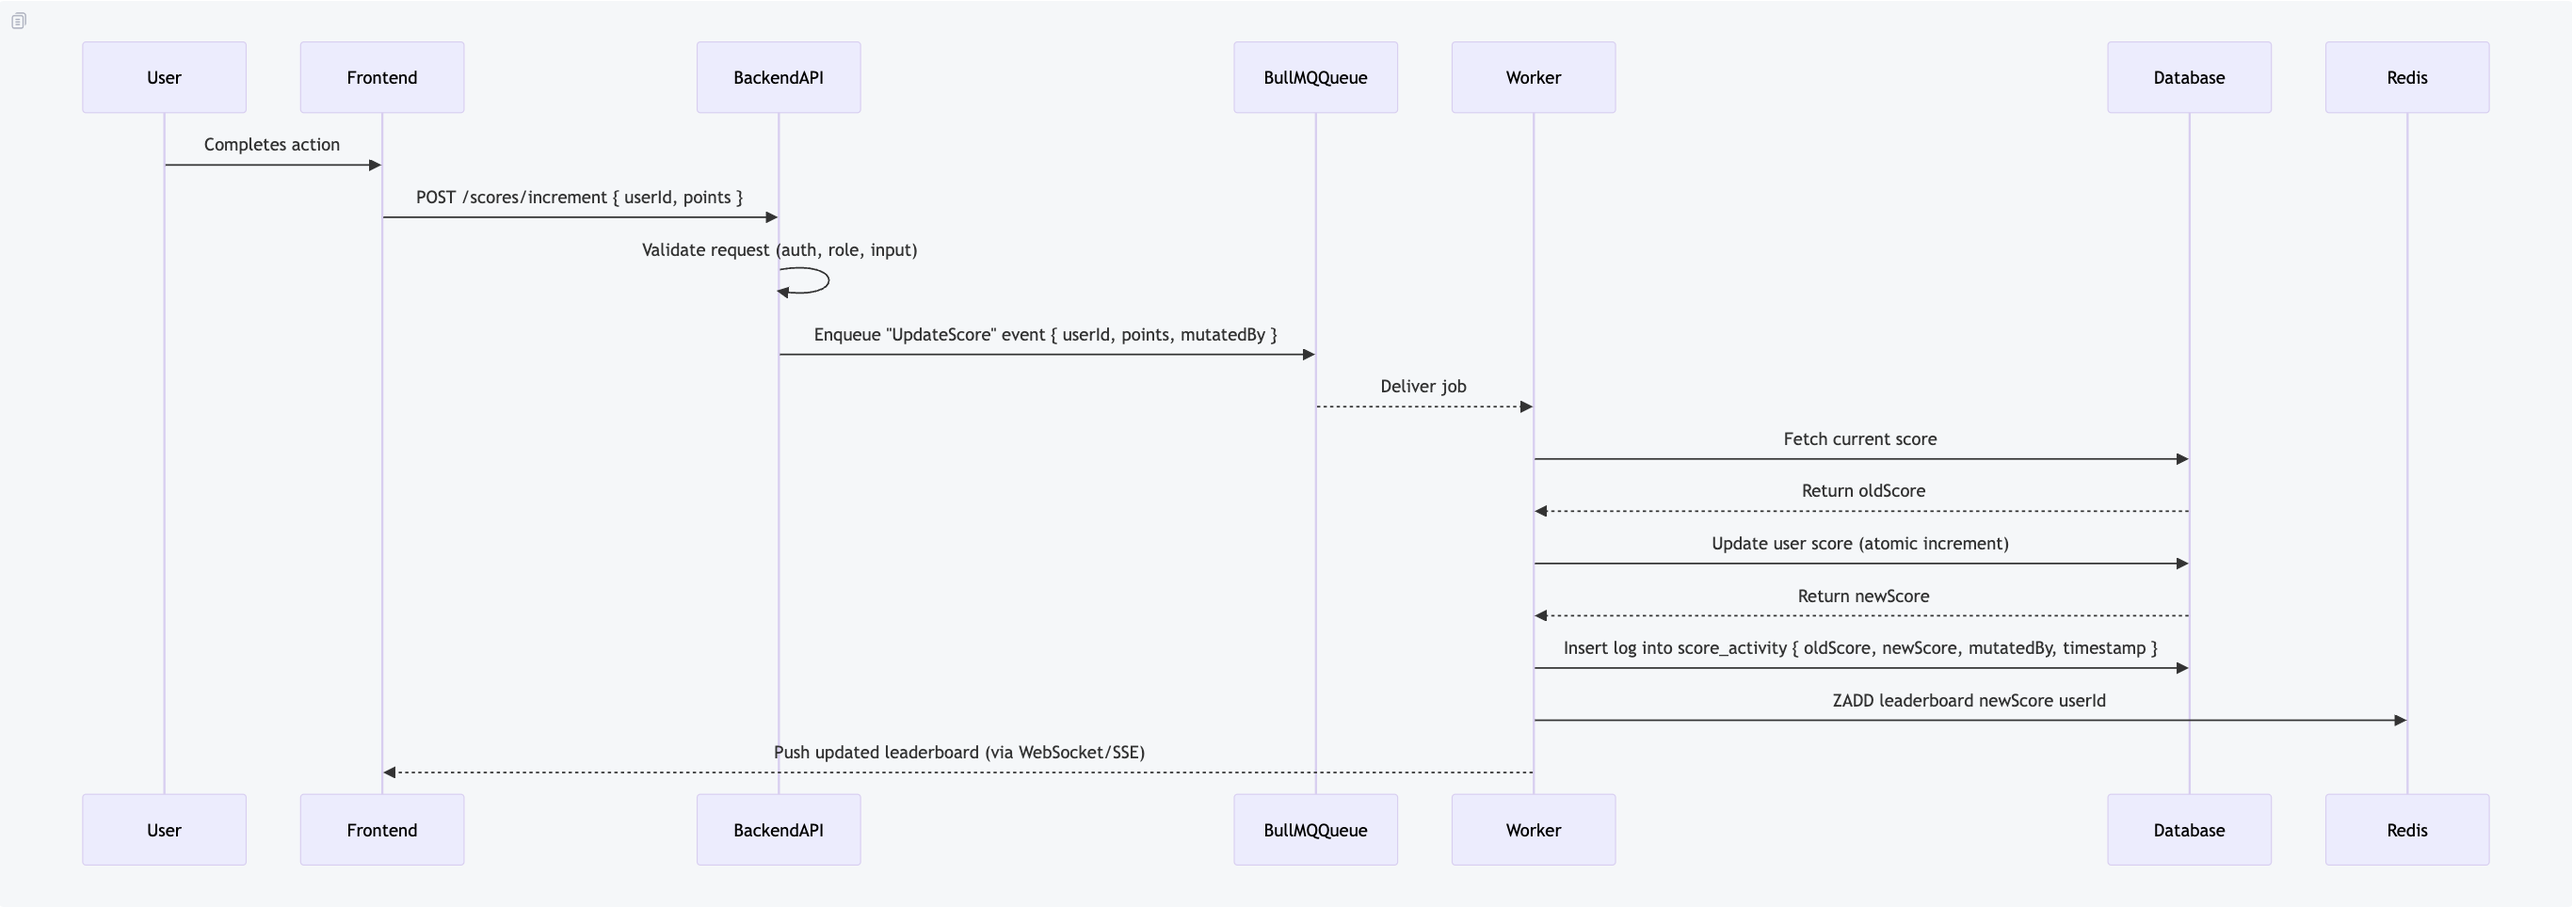
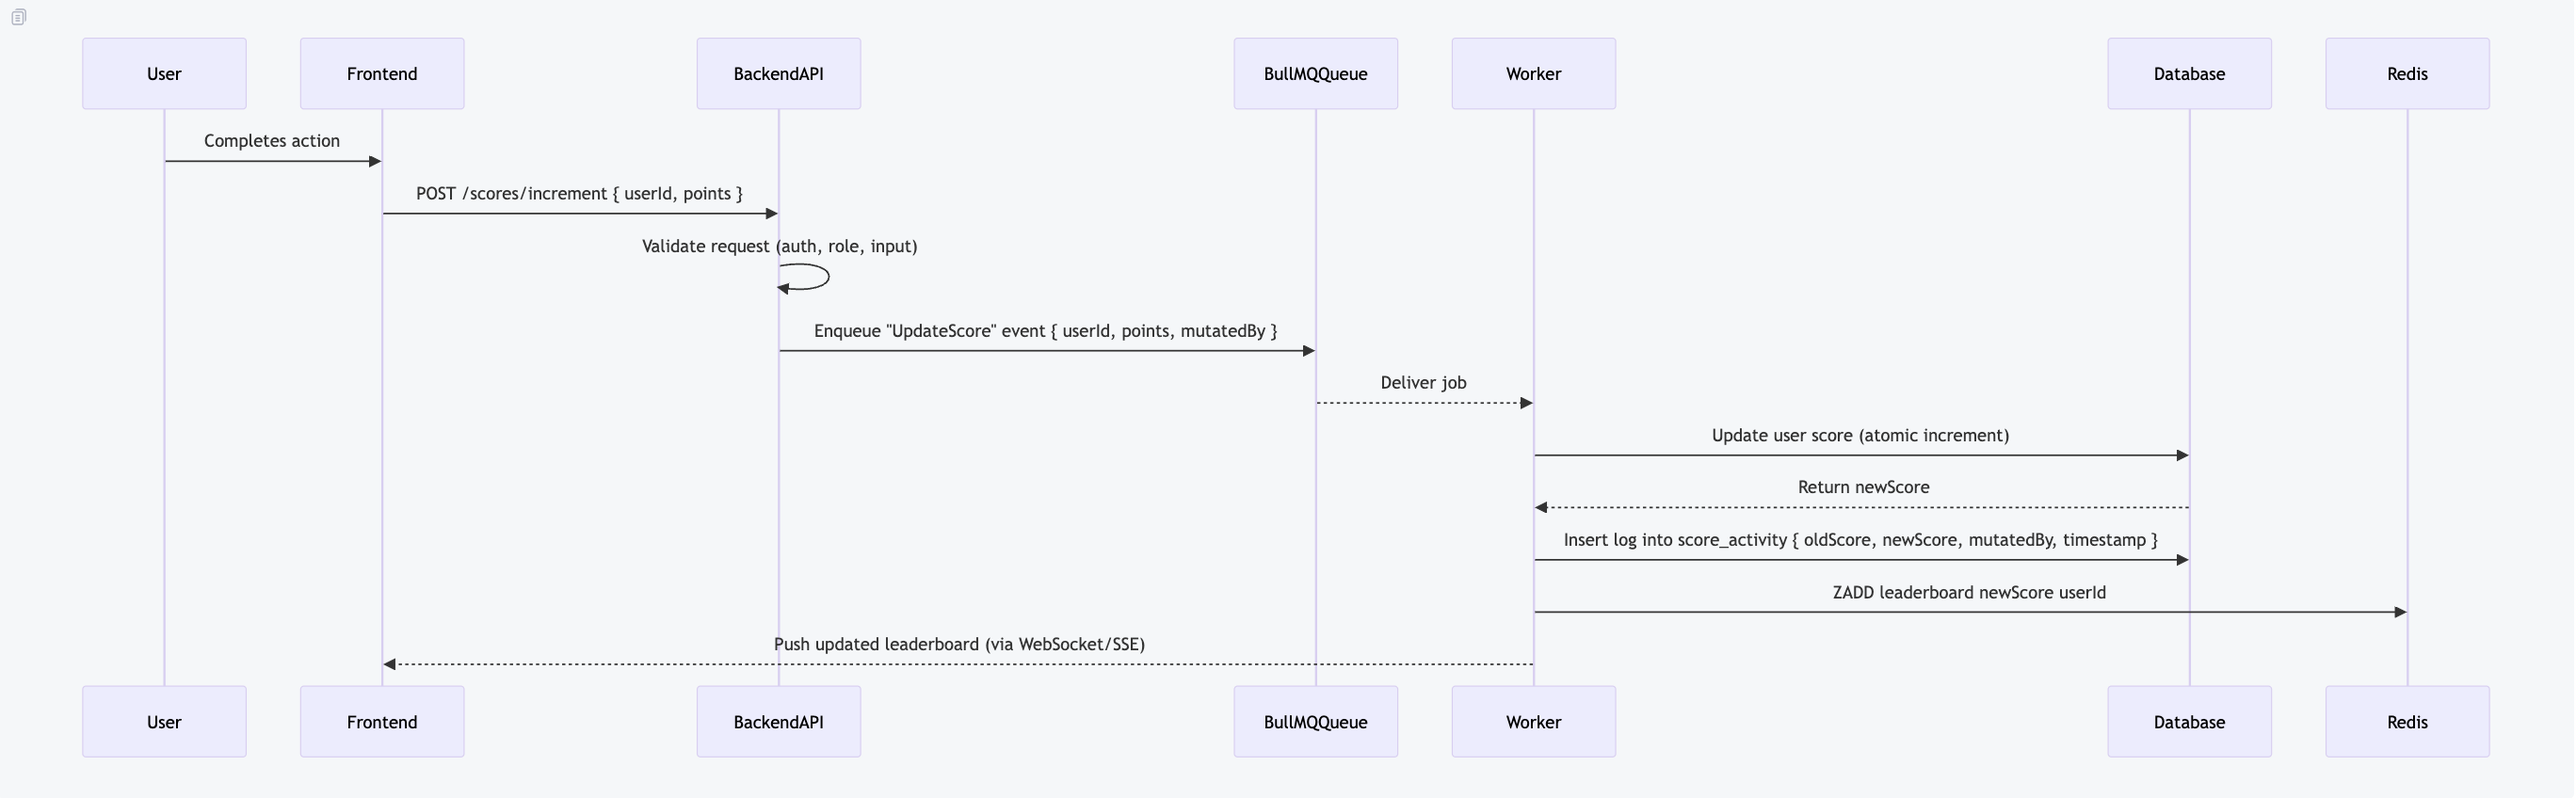
update chart

diff --git a/src/problem6/README.md b/src/problem6/README.md
@@ -61,8 +61,6 @@ sequenceDiagram
     BackendAPI->>BackendAPI: Validate request (auth, role, input)
     BackendAPI->>BullMQQueue: Enqueue "UpdateScore" event { userId, points, mutatedBy }
     BullMQQueue-->>Worker: Deliver job
-    Worker->>Database: Fetch current score
-    Database-->>Worker: Return oldScore
     Worker->>Database: Update user score (atomic increment)
     Database-->>Worker: Return newScore
     Worker->>Database: Insert log into score_activity { oldScore, newScore, mutatedBy, timestamp }
@@ -187,11 +185,27 @@ await scoreQueue.add("UpdateScore", { userId, points, mutatedBy });
 
 ```ts
 scoreQueue.process("UpdateScore", async (job) => {
-  const { userId, points, mutatedBy } = job.data;
-  // 1. Fetch old score
-  // 2. Update DB atomically
-  // 3. Log into score_activity
-  // 4. Update Redis leaderboard
+    const { userId, points, mutatedBy } = job.data;
+
+    // 1. Fetch old score
+    //    - Read the current score from the users table.
+    //    - This is needed so we can log the old value into score_activity for auditing.
+    //    - If the user doesn’t exist, fail the job (invalid request).
+
+    // 2. Update DB atomically
+    //    - Use Postgres’ "UPDATE users SET score = score + X" which is safe because of MVCC.
+    //    - Postgres guarantees atomic increments at the row level (no explicit locks required).
+    //    - Even under heavy concurrency, each update is serialized correctly by Postgres.
+
+    // 3. Log into score_activity
+    //    - Insert a record that includes: userId, oldScore, newScore, mutatedBy, and timestamp.
+    //    - This ensures every change (by user or admin) is auditable and traceable.
+    //    - Helps detect malicious actions or admin abuse later.
+
+    // 4. Update Redis leaderboard
+    //    - Push the new score into a Redis ZSET ("leaderboard") with ZADD.
+    //    - Always use ZREVRANGE to fetch top scorers (since higher score = higher rank).
+    //    - This keeps the leaderboard fast (O(log N) updates, O(log N + M) for top queries).
 });
 ```
 
@@ -256,7 +270,7 @@ To further reduce the risk of malicious score mutations, we introduce an additio
       ```
 
 2. **Session Validation**
-    - On every score update request, the backend validates the incoming `deviceId` (if mobile) and/or `IP` against the stored session hash.
+    - On every score update request, the backend validates the incoming `deviceId` (if mobile) or `IP` against the stored session hash.
     - If they match → request proceeds.
     - If they differ → the user must log in again to re-establish a trusted session.
 
